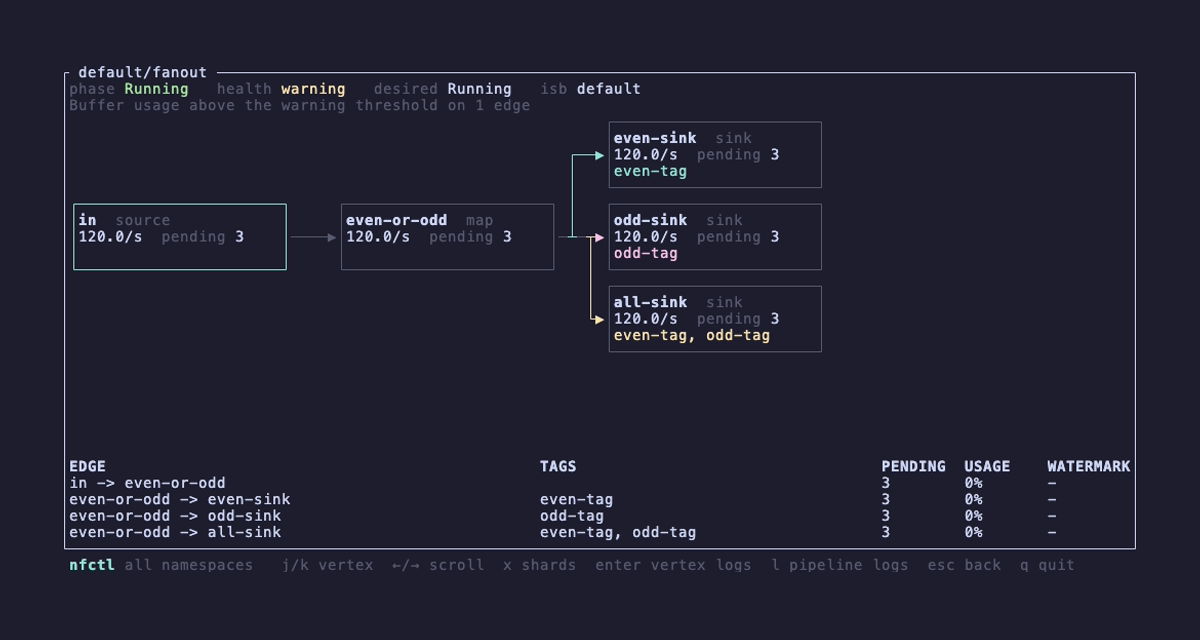
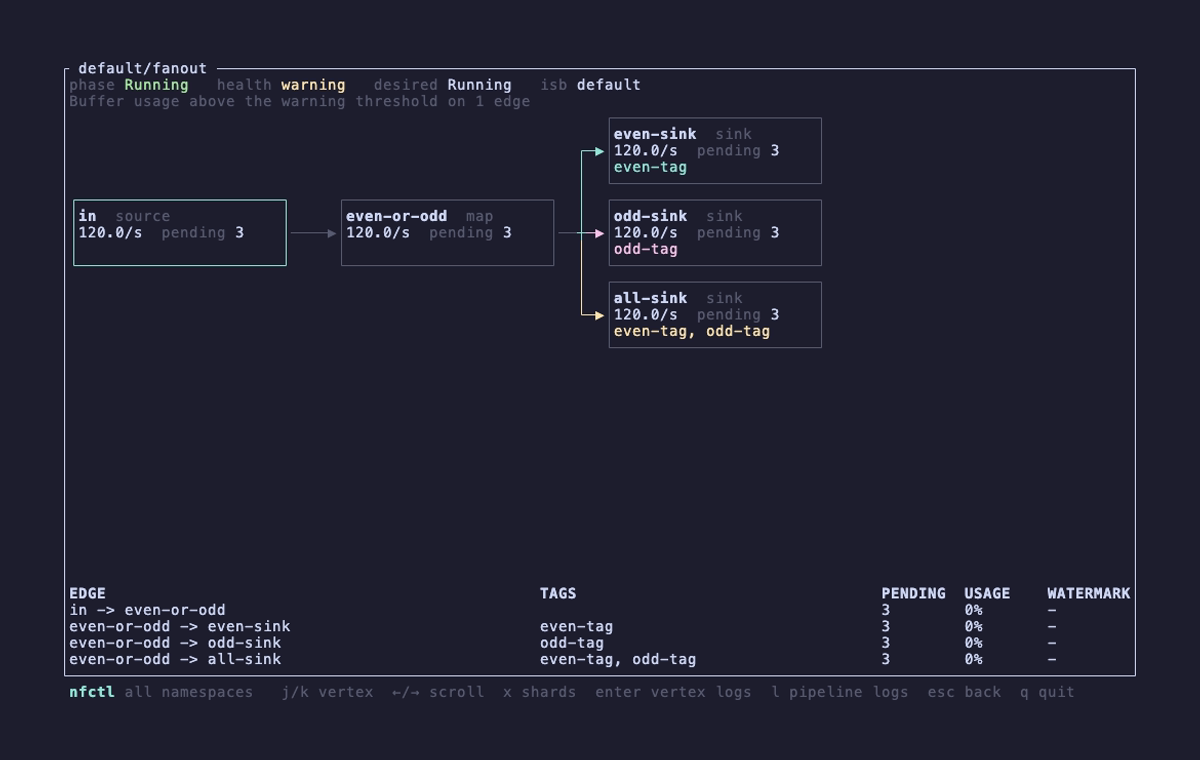
feat(graph): a blank row between stacked cards
Keeps every column an odd height, so centring lands on a row and a
source sits exactly between the two targets it fans out to.

diff --git a/crates/nfctl-tui/tests/frames.rs b/crates/nfctl-tui/tests/frames.rs
@@ -61,7 +61,7 @@ async fn detail_panel_with_cards() {
     panel.update(&AppEvent::Worker(WorkerReply::View(Box::new(Ok(view)))));
     // Move the selection to the second vertex so the highlight is exercised.
     panel.update(&AppEvent::Key(crossterm_key('j')));
-    insta::assert_snapshot!(frame(&panel, 110, 24));
+    insta::assert_snapshot!(frame(&panel, 110, 34));
 }
 
 #[tokio::test]
@@ -165,7 +165,7 @@ async fn detail_routes_every_edge() {
     .unwrap();
     let mut panel = DetailPanel::new(p.key.clone());
     panel.update(&AppEvent::Worker(WorkerReply::View(Box::new(Ok(view)))));
-    insta::assert_snapshot!(frame(&panel, 120, 30));
+    insta::assert_snapshot!(frame(&panel, 120, 34));
 }
 
 async fn sharded_panel(expand: bool) -> DetailPanel {
@@ -198,24 +198,24 @@ async fn sharded_panel(expand: bool) -> DetailPanel {
 #[tokio::test]
 async fn detail_collapses_shards_by_default() {
     let panel = sharded_panel(false).await;
-    insta::assert_snapshot!(frame(&panel, 110, 26));
+    insta::assert_snapshot!(frame(&panel, 110, 32));
 }
 
 #[tokio::test]
 async fn detail_expands_shards_on_x() {
     let panel = sharded_panel(true).await;
-    insta::assert_snapshot!(frame(&panel, 110, 30));
+    insta::assert_snapshot!(frame(&panel, 110, 46));
 }
 
 #[tokio::test]
 async fn detail_scrolls_columns_to_the_selection() {
     let mut panel = sharded_panel(false).await;
     // Too narrow for five columns: the last card is off-screen until selected.
-    insta::assert_snapshot!("scroll_start", frame(&panel, 70, 24));
+    insta::assert_snapshot!("scroll_start", frame(&panel, 70, 32));
     for _ in 0..7 {
         panel.update(&AppEvent::Key(crossterm_key('j')));
     }
-    insta::assert_snapshot!("scroll_to_selection", frame(&panel, 70, 24));
+    insta::assert_snapshot!("scroll_to_selection", frame(&panel, 70, 32));
 }
 
 /// Same text either way; colour on paints tagged edges in more than one hue.
@@ -224,7 +224,7 @@ async fn edge_colours_follow_tag_combinations() {
     use std::collections::BTreeSet;
     let colours = |panel: &DetailPanel| -> BTreeSet<String> {
         // Wide enough that no `N more ▶` marker adds its own arrowhead.
-        let mut term = Terminal::new(TestBackend::new(140, 26)).unwrap();
+        let mut term = Terminal::new(TestBackend::new(140, 32)).unwrap();
         term.draw(|f| panel.view(f, f.area())).unwrap();
         let buf = term.backend().buffer().clone();
         buf.content()
@@ -238,7 +238,7 @@ async fn edge_colours_follow_tag_combinations() {
     let off = sharded_panel(false)
         .await
         .with_palette(nfctl_tui::Palette::monochrome());
-    assert_eq!(frame(&on, 140, 26), frame(&off, 140, 26));
+    assert_eq!(frame(&on, 140, 32), frame(&off, 140, 32));
     // Untagged edges stay dim in both; tagged ones get a hue only with colour on.
     assert!(colours(&on).len() >= 3, "on: {:?}", colours(&on));
     assert!(colours(&off).len() <= 2, "off: {:?}", colours(&off));

diff --git a/crates/nfctl-graph/src/layout/route.rs b/crates/nfctl-graph/src/layout/route.rs
@@ -11,6 +11,8 @@ use super::{
     Slot, Track, ViewGraph, i,
 };
 
+/// Blank rows between stacked slots in a column.
+const SLOT_GAP: i32 = 1;
 /// Left margin when a back edge targets column 0.
 const BACK_MARGIN: i32 = 3;
 /// Pseudo node keys so back-edge verticals never share a track with forward
@@ -42,10 +44,13 @@ fn geometry(l: &Layered, opts: LayoutOptions) -> Geometry {
         LNode::Real(_) => i32::from(opts.card_h),
         LNode::Pass(_) => 1,
     };
+    // One blank row between stacked slots. With odd card heights this keeps
+    // every column an odd height, so centring lands on a row and a source
+    // sits exactly between the two targets it fans out to.
     let heights: Vec<i32> = l
         .columns
         .iter()
-        .map(|col| col.iter().map(slot_h).sum())
+        .map(|col| col.iter().map(slot_h).sum::<i32>() + i(col.len().saturating_sub(1)))
         .collect();
     let tallest = heights.iter().copied().max().unwrap_or(0);
     let mut geo = Geometry {
@@ -59,7 +64,10 @@ fn geometry(l: &Layered, opts: LayoutOptions) -> Geometry {
         // out and back in reads as one horizontal line through the middle.
         let mut y = (tallest - heights[c]) / 2;
         let mut slots = Vec::new();
-        for &n in col {
+        for (k, &n) in col.iter().enumerate() {
+            if k > 0 {
+                y += SLOT_GAP;
+            }
             match n {
                 LNode::Real(id) => {
                     // Every card is the same (odd) height so edges meet a true

diff --git a/crates/nfctl-tui/examples/gallery.rs b/crates/nfctl-tui/examples/gallery.rs
@@ -184,7 +184,7 @@ async fn card_frames(item: &Item) -> Vec<(String, String)> {
             } else {
                 ViewGraph::collapsed(&item.topology).nodes.len()
             };
-            let h = u16::try_from(nodes * 5 + 12).unwrap_or(u16::MAX).min(200);
+            let h = u16::try_from(nodes * 6 + 14).unwrap_or(u16::MAX).min(240);
             let mut term = Terminal::new(TestBackend::new(w, h)).unwrap();
             term.draw(|f| panel.view(f, f.area())).unwrap();
             let label = format!(

diff --git a/crates/nfctl-graph/src/layout/tests.rs b/crates/nfctl-graph/src/layout/tests.rs
@@ -69,7 +69,7 @@ fn fan_out_shares_one_track() {
     let (g, l) = lay("s([s]) --> a[a]\n s --> b[b]\n s --> c[c]\n s --> d[d]");
     assert_eq!(l.gaps[0].tracks.len(), 1);
     assert_eq!(l.gaps[0].width, MIN_GAP);
-    assert_eq!(l.height, 20);
+    assert_eq!(l.height, 23);
     check_endpoints(&g, &l);
 }
 

diff --git a/docs/rendering.md b/docs/rendering.md
@@ -1,0 +1,125 @@
+# How edges are drawn
+
+The card view paints edges onto a grid of cells, one cell per terminal
+column. This page describes the painter in `crates/nfctl-tui/src/cards.rs`
+and the track packing in `crates/nfctl-graph/src/layout/tracks.rs` that
+decides where the verticals go.
+
+## Tiles
+
+Each cell holds four direction bits: `L`, `R`, `U`, `D`. A bit says "a line
+leaves this cell in that direction". The painter has three primitives only:
+
+- a horizontal run sets `R` on every cell but the last and `L` on every cell
+  but the first;
+- a vertical run does the same with `D` and `U`;
+- an arrowhead marks the last cell of a route and is drawn as `▶` regardless
+  of bits.
+
+A route is an orthogonal polyline, painted as a sequence of runs. Bits are
+OR-ed into the cell, so two routes through the same cell leave the union of
+their bits. The glyph is a pure function of the bits:
+
+| bits | glyph |
+|---|---|
+| none | space |
+| `L`, `R`, `L R` | `─` |
+| `U`, `D`, `U D` | `│` |
+| `R D` | `┌` |
+| `L D` | `┐` |
+| `R U` | `└` |
+| `L U` | `┘` |
+| `L R D` | `┬` |
+| `L R U` | `┴` |
+| `U D R` | `├` |
+| `U D L` | `┤` |
+| anything else | `┼` |
+
+Corners and junctions are never drawn on purpose. A corner is what a
+horizontal run and a vertical run leave behind where they meet; `┼` is what
+three or four runs leave behind. This is why routes can be painted in any
+order and why a fork and a crossing use the same code path.
+
+## Colour
+
+Each cell has one ink. The first route to touch a cell sets it to that
+route's colour; a second route with the same colour leaves it alone; a
+second route with a different colour sets it to `Mixed`, which paints dim.
+An untagged edge has no colour and paints dim too, so `Mixed` and
+"untagged" look the same.
+
+One exception. The cell also remembers the colour of the first route that
+ran *vertically* through it (`turn`). When a cell ends up `Mixed`, it paints
+in that colour instead. The effect at a fork: the horizontal trunk arriving
+from the card is shared by every branch and goes grey, but the junction cell
+where the first branch turns takes that branch's colour rather than grey.
+
+Arrowheads carry their own ink, set by the same rule (`Mixed` if two edges
+of different colour end on one head, which is what a fan-in does).
+
+Colour itself is decided in the layout, not the painter: the sorted tag
+combination of an edge picks a palette slot in first-encounter order, and
+the painter maps a slot to a hue. In the fanout fixture, `even-tag` is
+slot 0, `odd-tag` slot 1, `even-tag,odd-tag` slot 2 — three distinct colours
+for three edges out of `even-or-odd`.
+
+## Tracks
+
+Within a gap between two columns, every edge that changes row needs a
+vertical run. `tracks::pack` assigns those runs to tracks, one column of
+cells each, in `(lo, hi, edge)` order. A run may join an existing track when,
+against every run already there, one of these holds:
+
+1. they share a source or share a target, **and** have the same colour;
+2. their rows are disjoint (with one row of clearance);
+3. they share a source or a target and touch only on the shared row.
+
+Rule 1 is the bundle: shards fanning out from one card with no tags leave as
+one vertical. Rule 2 is plain packing. Rule 3 exists so that a source sitting
+between two targets forks symmetrically through one cell instead of drawing
+two offset corners.
+
+Gap width is `tracks + 2`, minimum 5, and the tracks sit centred in the gap.
+Tracks are then ordered left to right by an adjacent-swap descent over the
+number of horizontals that would cross each vertical, with a heavy penalty
+when one run's exit row lands on another's corner row (it would read as one
+line).
+
+### Two examples from the fixture
+
+`even-or-odd` fans out to `even-sink` (even-tag, cyan), `odd-sink` (odd-tag,
+magenta) and `all-sink` (both tags, yellow). Three targets stack in the next
+column; the source is centred on the middle one, so the middle edge is
+straight and needs no track. The other two touch only on the source row and
+share one track by rule 3:
+
+```
+      ┌─▶  even-sink        cyan vertical and head
+      │
+ ──┼─▶  odd-sink         trunk grey, ┼ cyan (turn rule), then magenta
+      │
+      └─▶  all-sink         yellow vertical and head
+```
+
+The two cells of trunk before the `┼` are `Mixed`; the `┼` itself takes the
+colour of the first edge to run vertically through it.
+
+`router` in the sharded pipeline fans out to the collapsed `worker` group
+(untagged) and to `audit` (tagged). Two runs, no straight edge, one shared
+track by rule 3, and the junction is `L U D`:
+
+```
+      ┌─▶  worker x3        dim
+ ──┤
+      └─▶  audit            coloured
+```
+
+## What this cannot draw
+
+A cell has one colour. Wherever two edges with different tags share cells,
+those cells go grey, so a trunk leaving a card that carries several tag
+combinations is grey until the branches part. The turn rule rescues one
+cell of that, not the trunk. Rule 1 avoids the problem when the colours
+agree; when they do not, the choice is between a grey trunk and a wider gap
+with one vertical per colour. That trade is written up in the trunk options
+note on TIM-21.
